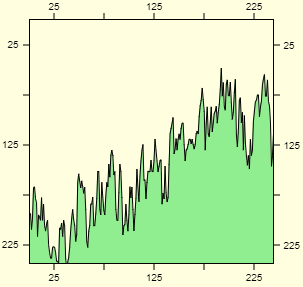
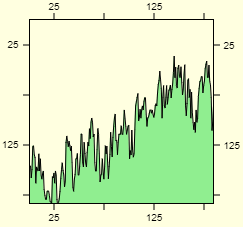
docs: update axes example

Changed region(s): [[0.0, 0.0, 1.0, 0.9868]]

diff --git a/apps/angular-demo/src/app/app.component.html b/apps/angular-demo/src/app/app.component.html
@@ -349,7 +349,7 @@ Object arrays
           style="display: inline-block"
           class="plain-axis-chart"
           [position]="AxisPosition.Top"
-          [width]="weatherRecords[0].maxT.length + 2"
+          [width]="weatherRecords[0].maxT.length + 2 - 60"
           [height]="20"
           [background]="'lightyellow'"
           [font]="'10px arial'"
@@ -365,7 +365,7 @@ Object arrays
           class="plain-axis-chart"
           [position]="AxisPosition.Left"
           [width]="30"
-          [height]="weatherRecords[0].maxT.length"
+          [height]="weatherRecords[0].maxT.length - 60"
           [background]="'lightyellow'"
           [font]="'10px arial'"
           [ticks]="ticks1"
@@ -375,8 +375,8 @@ Object arrays
       </td>
       <td>
         <sparklib-line-chart
-          [width]="243"
-          [height]="243"
+          [width]="183"
+          [height]="183"
           [background]="'lightyellow'"
           [fillStyle]="'lightgreen'"
           [yDomain]="[0, 45]"
@@ -389,7 +389,7 @@ Object arrays
           class="plain-axis-chart"
           [position]="AxisPosition.Right"
           [width]="30"
-          [height]="weatherRecords[0].maxT.length"
+          [height]="weatherRecords[0].maxT.length - 60"
           [background]="'lightyellow'"
           [font]="'10px arial'"
           [ticks]="ticks1"
@@ -404,7 +404,7 @@ Object arrays
           style="display: inline-block"
           class="plain-axis-chart"
           [position]="AxisPosition.Bottom"
-          [width]="weatherRecords[0].maxT.length + 2"
+          [width]="weatherRecords[0].maxT.length + 2 - 60"
           [height]="20"
           [background]="'lightyellow'"
           [font]="'10px arial'"

diff --git a/README.md b/README.md
@@ -185,7 +185,7 @@ Axes are available for all sides of a chart (top, left, right and bottom). The e
 
 ![Chart with top, left, right and bottom axes](docs/images/sl-ax-axes-and-chart.png)
 
-There are several styling options available if you need fancy axes:
+There are several styling options available if you need more fancy axes:
 
 ![Horizontal bottom x axis with gradient](docs/images/sl-ax-horizontal-bottom-fancy-chart.png)
 
